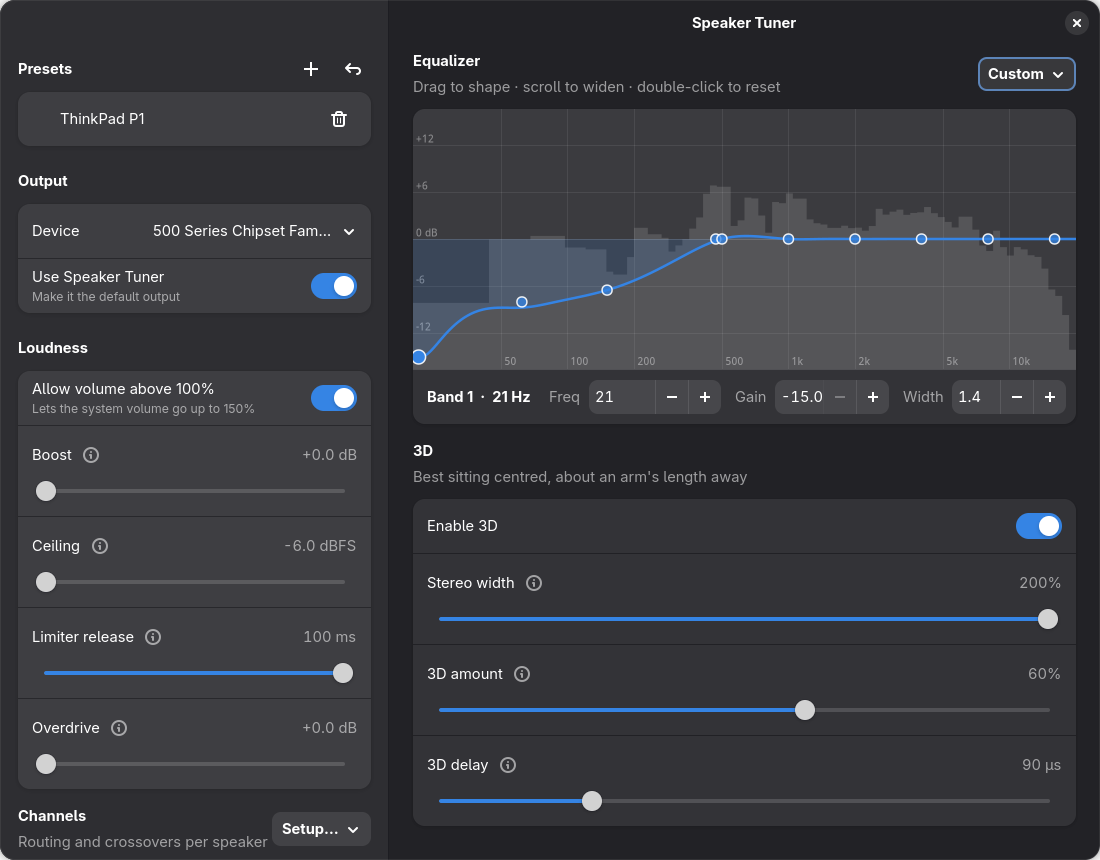
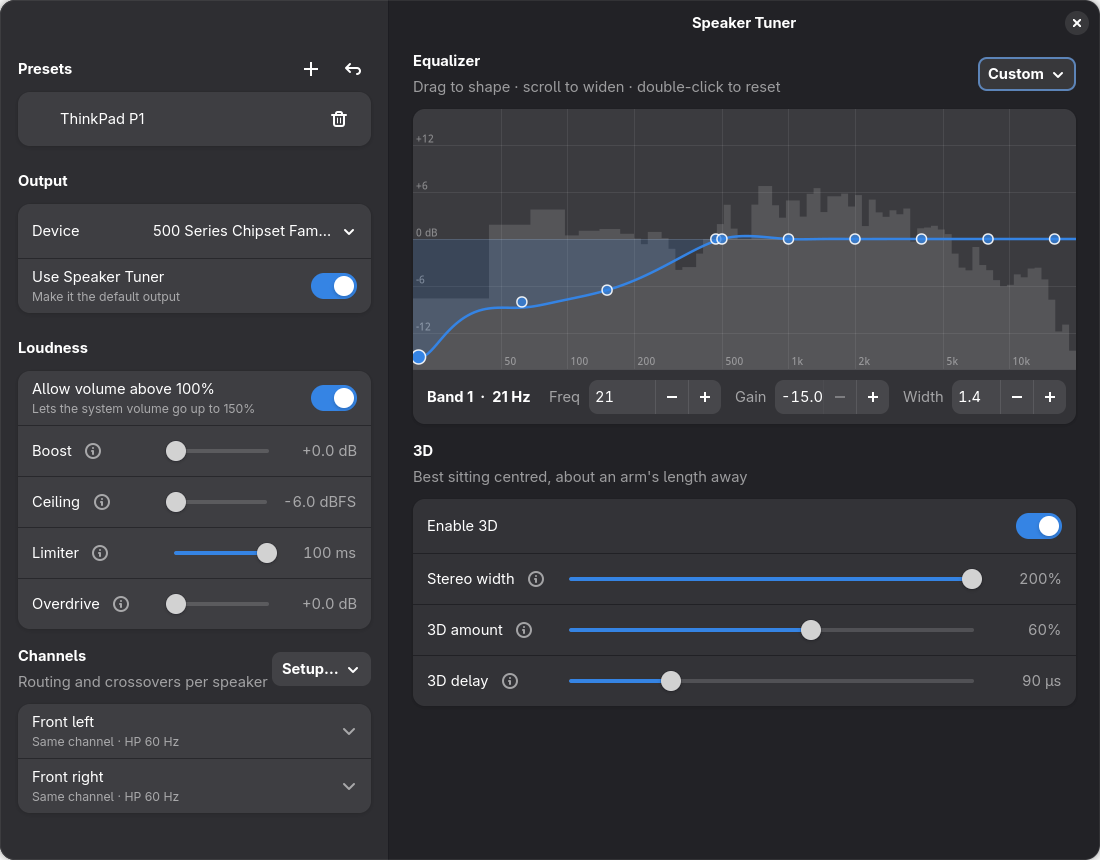
One-line slider rows with aligned sliders; rename Limiter release to Limiter

diff --git a/speaker_tuner.py b/speaker_tuner.py
@@ -896,6 +896,7 @@ class Window(Adw.ApplicationWindow):
         self.building = True
         self.needs_restart = False
         self.loaders = []  # callables that push self.s into widgets
+        self.slider_heads = Gtk.SizeGroup(mode=Gtk.SizeGroupMode.HORIZONTAL)
         self.profiles = {}
         self.profile_names = []
         self.analyzer = Analyzer(self.on_spectrum)
@@ -973,7 +974,7 @@ class Window(Adw.ApplicationWindow):
             g.add(over)
         g.add(self.slider("Boost", "Louder without clipping", 0, 20, 0.5, lambda v: f"{v:+.1f} dB", "boost_db"))
         g.add(self.slider("Ceiling", "Maximum output level", -6, 0, 0.1, lambda v: f"{v:.1f} dBFS", "ceiling_db"))
-        g.add(self.slider("Limiter release", "Longer is smoother, shorter is punchier", 1, 100, 1,
+        g.add(self.slider("Limiter", "Release time: longer is smoother, shorter is punchier", 1, 100, 1,
                           lambda v: f"{v:.0f} ms", "release_ms"))
         g.add(self.slider("Overdrive", "Extra gain that distorts", 0, 18, 0.5,
                           lambda v: f"{v:+.1f} dB", "drive_db"))
@@ -1039,35 +1040,35 @@ class Window(Adw.ApplicationWindow):
     # -- widget factories
 
     def slider(self, title, tip, lo, hi, step, fmt, key=None, get=None, put=None, log=False):
-        """Row with title + short description and the value on top, full-width slider below.
+        """One-line row: title, (i) button, slider, value.
 
         Reads/writes self.s[key], or uses get()/put(v) for nested values.
         """
         get = get or (lambda: self.s[key])
         put = put or (lambda v: self.s.__setitem__(key, v))
         row = Adw.PreferencesRow(title=title, activatable=False)
-        box = Gtk.Box(orientation=Gtk.Orientation.VERTICAL, spacing=2,
-                      margin_top=10, margin_bottom=6, margin_start=12, margin_end=12)
-        # title, an (i) button explaining it (tooltip on hover, popover on click/tap), then the value
-        top = Gtk.Box(spacing=2)
-        top.append(Gtk.Label(label=title, xalign=0, valign=Gtk.Align.CENTER))
-        if tip:
+        box = Gtk.Box(spacing=4, margin_top=6, margin_bottom=6, margin_start=12, margin_end=12)
+        head = Gtk.Box(spacing=4)  # same width on every row so the sliders line up
+        self.slider_heads.add_widget(head)
+        box.append(head)
+        head.append(Gtk.Label(label=title, xalign=0, valign=Gtk.Align.CENTER))
+        if tip:  # tooltip on hover, popover on click/tap
             theme = Gtk.IconTheme.get_for_display(Gdk.Display.get_default())
             icon = "info-outline-symbolic" if theme.has_icon("info-outline-symbolic") else "dialog-information-symbolic"
             info = Gtk.MenuButton(icon_name=icon, tooltip_text=tip,
                                   valign=Gtk.Align.CENTER, has_frame=False, css_classes=["circular", "dim-label"])
             info.set_popover(Gtk.Popover(child=Gtk.Label(label=tip, wrap=True, max_width_chars=32,
                                                          margin_top=6, margin_bottom=6, margin_start=6, margin_end=6)))
-            top.append(info)
-        top.append(Gtk.Box(hexpand=True))
-        val = Gtk.Label(css_classes=["numeric", "dim-label"], xalign=1, valign=Gtk.Align.CENTER)
-        top.append(val)
-        box.append(top)
+            head.append(info)
         lo_s, hi_s = (to_log(lo), to_log(hi)) if log else (lo, hi)
         sc = Gtk.Scale.new_with_range(Gtk.Orientation.HORIZONTAL, lo_s, hi_s, 0.001 if log else step)
         sc.set_draw_value(False)
         sc.set_hexpand(True)
+        sc.set_size_request(100, -1)
+        sc.set_valign(Gtk.Align.CENTER)
         box.append(sc)
+        val = Gtk.Label(css_classes=["numeric", "dim-label"], xalign=1, width_chars=8, valign=Gtk.Align.CENTER)
+        box.append(val)
         row.set_child(box)
 
         def value_of(scale_v):
